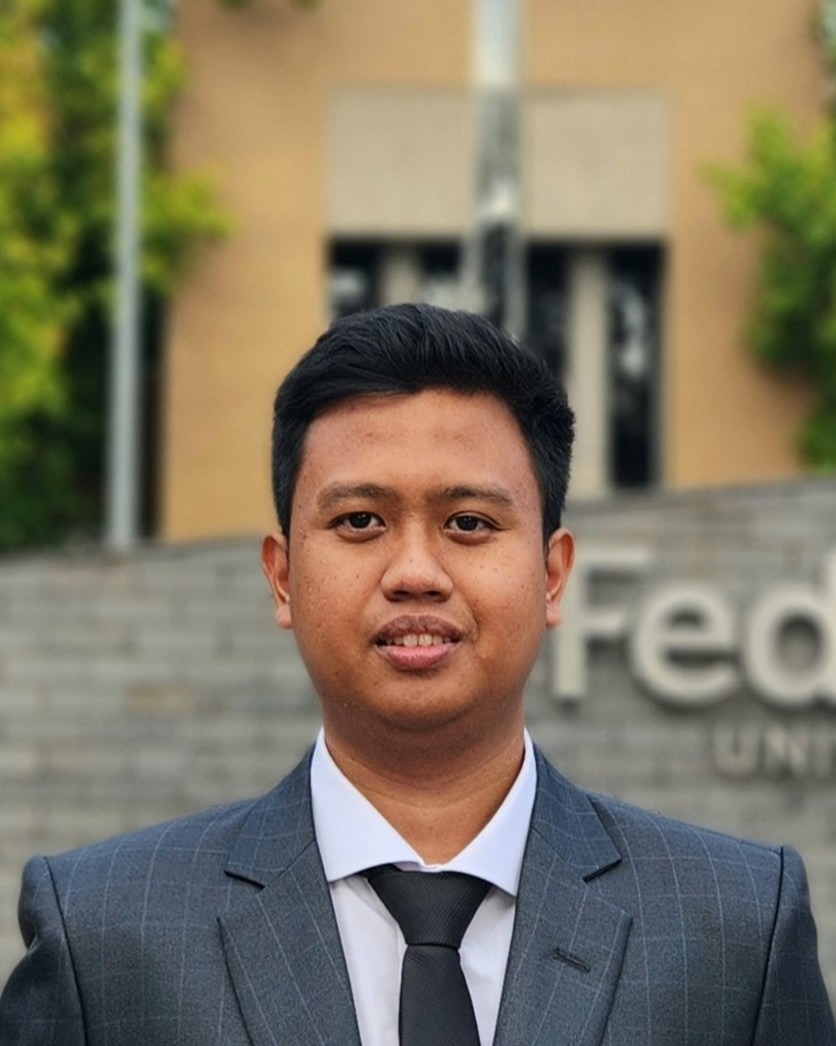
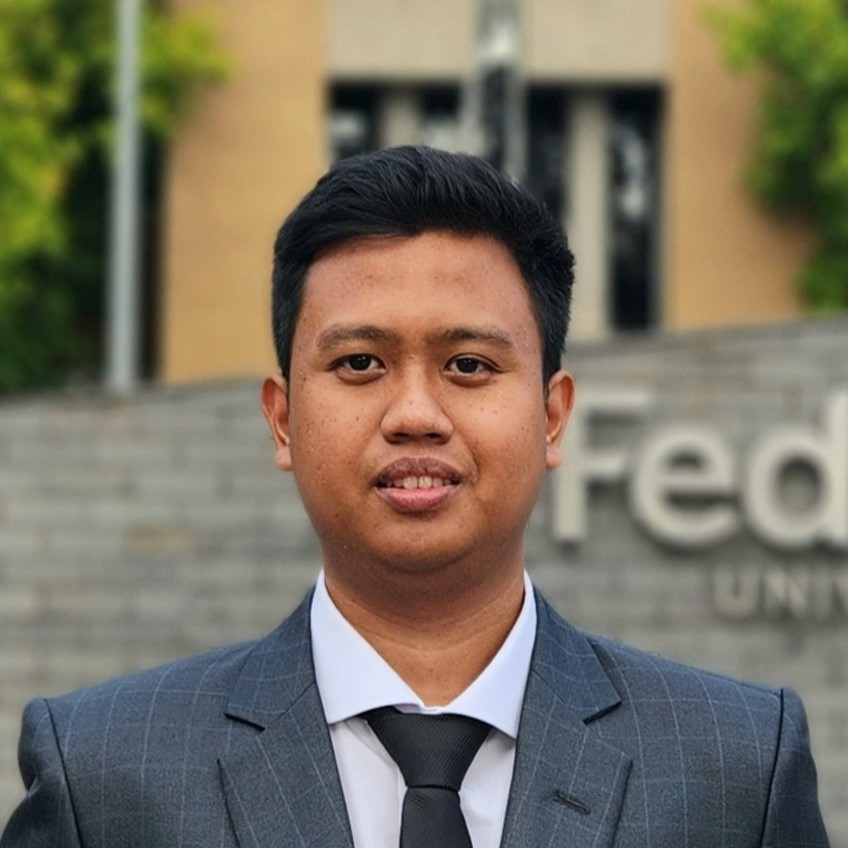
Update contents

diff --git a/_sass/_base.scss b/_sass/_base.scss
@@ -120,7 +120,6 @@ blockquote {
   .address {
     margin-bottom: 5px;
     margin-top: 5px;
-    font-family: monospace;
 
     p {
       display: inline-block;
@@ -144,6 +143,7 @@ blockquote {
     .address {
       p {
         display: block;
+        text-align: right;
       }
     }
   }
@@ -305,7 +305,7 @@ blockquote {
   text-align: center;
 
   .contact-icons {
-    font-size: 2.5rem;
+    font-size: 2.2rem;
 
     a {
       i::before {

diff --git a/_pages/about.md b/_pages/about.md
@@ -2,17 +2,13 @@
 layout: about
 title: about
 permalink: /
-subtitle: PhD candidate at <a href='#'>Federation University Australia</a> and at <a href='#'>CSIRO's Data61</a>.
+subtitle: Ballarat, VIC 3350, Australia #PhD candidate at <a href='#'>Federation University Australia</a> and at <a href='#'>CSIRO's Data61</a>.
 
 profile:
   align: right
   image: prof_pic.jpg
-  image_circular: false # crops the image to make it circular
+  image_circular: true # crops the image to make it circular
   address: >
-    <p>Room 160, Building T</p>
-    <p>1 University Dr</p>
-    <p>Ballarat, VIC 3350</p>
-    <p>Australia</p>
 
 news: true  # includes a list of news items
 latest_posts: false  # includes a list of the newest posts
@@ -20,8 +16,11 @@ selected_papers: true # includes a list of papers marked as "selected={true}"
 social: true  # includes social icons at the bottom of the page
 ---
 
-Changed Tell the world about yourself. Link to your favorite [subreddit](http://reddit.com). You can put a picture in, too. The code is already in, just name your picture `prof_pic.jpg` and put it in the `img/` folder.
 
-Put your address / P.O. box / other info right below your picture. You can also disable any of these elements by editing `profile` property of the YAML header of your `_pages/about.md`. Edit `_bibliography/papers.bib` and Jekyll will render your [publications page](/al-folio/publications/) automatically.
+Welcome! I am a PhD candidate at [Federation University Australia, Australia](https://federation.edu.au/), and I am also affiliated with [CSIRO's Data61](https://research.csiro.au/cybersecurity-quantum-systems/). During my candidature, I have been supported by the [Data61 PhD Scholarship](https://www.csiro.au/en/careers/scholarships-student-opportunities/postgraduate-programs-and-scholarships/data61-scholarships).
 
-Link to your social media connections, too. This theme is set up to use [Font Awesome icons](http://fortawesome.github.io/Font-Awesome/) and [Academicons](https://jpswalsh.github.io/academicons/), like the ones below. Add your Facebook, Twitter, LinkedIn, Google Scholar, or just disable all of them.
+I hold a Master of Technology degree from [Federation University Australia, Australia](https://federation.edu.au/), specializing in enterprise systems and business analytics. Before that, I completed my Bachelor of Computer Science from [Brawijaya University, Indonesia](https://ub.ac.id/).
+
+I am interested in the fields of `Artificial Intelligence, Graph Learning, and Anomaly Detection`. Recently, my research has been centred around harnessing the capabilities of graph neural networks to detect anomalies. In the past year, I have been actively applying this technique to different domains, such as cyber-physical systems and the detection of brain diseases.
+
+E-mail: `f[dot]febrinanto[at]federation[dot]edu[dot]au; falih[dot]febrinanto[at]csiro[dot]data61[dot]au`

diff --git a/_pages/publications.md b/_pages/publications.md
@@ -2,7 +2,7 @@
 layout: page
 permalink: /publications/
 title: publications
-description: publications by categories in reversed chronological order. generated by jekyll-scholar.
+description: 
 years: [2023, 2022, 2021, 2019]
 nav: true
 nav_order: 1
